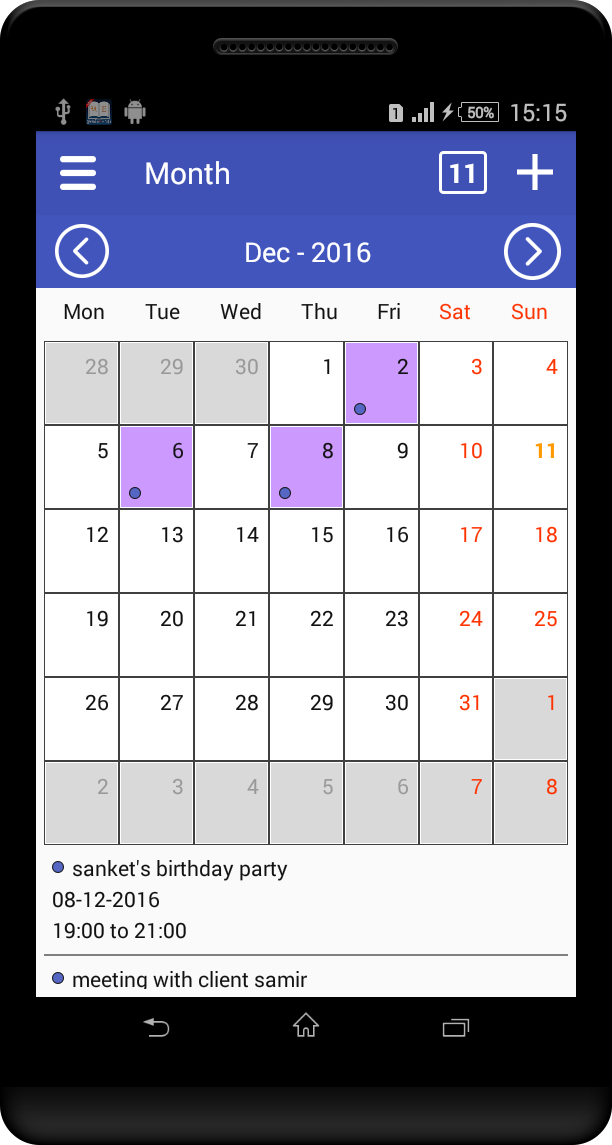
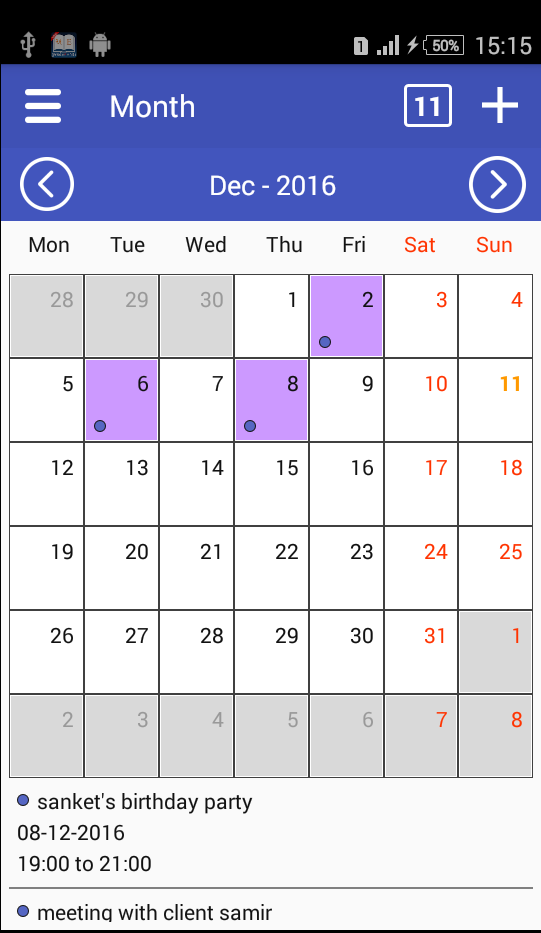
vats

diff --git a/app/src/main/java/com/desai/vatsal/mydynamiccalendarlibrary/MainActivity.java b/app/src/main/java/com/desai/vatsal/mydynamiccalendarlibrary/MainActivity.java
@@ -66,11 +66,11 @@ public class MainActivity extends AppCompatActivity {
         myCalendar.setWeekDayLayoutTextColor("#246245");
 //        myCalendar.setWeekDayLayoutTextColor(R.color.black);
 
-//        myCalendar.isSaturdayOff(true, "null", "#ff0000");
-//        myCalendar.isSaturdayOff(true, -1, R.color.red);
+        myCalendar.isSaturdayOff(true, "#ffffff", "#ff0000");
+        myCalendar.isSaturdayOff(true, R.color.white, R.color.red);
 
-//        myCalendar.isSundayOff(true, "#658745", "#254632");
-//        myCalendar.isSundayOff(true, -1, getResources().getColor(R.color.red));
+        myCalendar.isSundayOff(true, "#658745", "#254632");
+        myCalendar.isSundayOff(true, R.color.white, R.color.red);
 
         myCalendar.setExtraDatesOfMonthBackgroundColor("#324568");
 //        myCalendar.setExtraDatesOfMonthBackgroundColor(R.color.black);

diff --git a/mydynamiccalendar/src/main/java/com/desai/vatsal/mydynamiccalendar/MyDynamicCalendar.java b/mydynamiccalendar/src/main/java/com/desai/vatsal/mydynamiccalendar/MyDynamicCalendar.java
@@ -249,12 +249,12 @@ public class MyDynamicCalendar extends LinearLayout {
 
     public void isSaturdayOff(boolean b, String layoutcolor, String textcolor) {
         if (b) {
-            if (!TextUtils.isEmpty(layoutcolor) && !TextUtils.isEmpty(textcolor)) {
+//            if (!TextUtils.isEmpty(layoutcolor) && !TextUtils.isEmpty(textcolor)) {
                 AppConstants.isSaturdayOff = true;
                 AppConstants.strSaturdayOffBackgroundColor = layoutcolor;
                 AppConstants.strSaturdayOffTextColor = textcolor;
                 tv_sat.setTextColor(Color.parseColor(textcolor));
-            }
+//            }
         }
     }
 

diff --git a/README.md b/README.md
@@ -4,11 +4,13 @@ This is an Android Library for developer to use customized calendar with all typ
 Example is available in app module.
 
 <p>
-<img src="https://github.com/vatsaldesai92/MyDynamicRecyclerviewLibrary/blob/master/app/src/main/assets/1.png" alt="screenshot" width="270">
+<img src="https://github.com/vatsaldesai92/MyDynamicCalendarLibrary/blob/master/app/src/main/assets/1.png" alt="screenshot" width="270">
 
-<img src="https://github.com/vatsaldesai92/MyDynamicRecyclerviewLibrary/blob/master/app/src/main/assets/2.png" alt="screenshot" width="270">
+<img src="https://github.com/vatsaldesai92/MyDynamicCalendarLibrary/blob/master/app/src/main/assets/2.png" alt="screenshot" width="270">
 
-<img src="https://github.com/vatsaldesai92/MyDynamicRecyclerviewLibrary/blob/master/app/src/main/assets/3.png" alt="screenshot" width="270">
+<img src="https://github.com/vatsaldesai92/MyDynamicCalendarLibrary/blob/master/app/src/main/assets/3.png" alt="screenshot" width="270">
+
+<img src="https://github.com/vatsaldesai92/MyDynamicCalendarLibrary/blob/master/app/src/main/assets/4.png" alt="screenshot" width="270">
 </p>
 
 ##Download
@@ -58,6 +60,17 @@ dependencies {
     myCalendar.setCurrentDateTextColor("#00e600");
     myCalendar.setBelowMonthEventTextColor("#425684");
     myCalendar.setBelowMonthEventDividerColor("#635478");
+~~~
+
+- Manage Saturday & Sunday
+~~~
+   // set all saturday off(Holiday) - default value is false
+   // isSaturdayOff(true/false, date_background_color, date_text_color);
+   myCalendar.isSaturdayOff(true, "#ffffff", "#ff0000");
+
+   // set all sunday off(Holiday) - default value is false
+   // isSundayOff(true/false, date_background_color, date_text_color);
+   myCalendar.isSundayOff(true, "#ffffff", "#ff0000");
 ~~~
 
 - Manage Events
